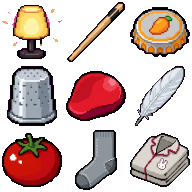
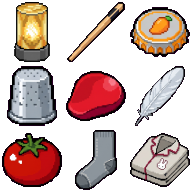
Octobre : Samsam sans pyjama (tenue + portrait) et vraie icône de veilleuse

Changed region(s): [[0.0625, 0.0, 0.2812, 0.3438], [0.2812, 0.1875, 0.3125, 0.2188], [0.0, 0.0938, 0.0312, 0.125]]

diff --git a/10/js/acte2.js b/10/js/acte2.js
@@ -145,9 +145,9 @@ function demarrerActeII(nouveau) {
     if (aObjet("plume")) donnerObjet("plume");
     if (aObjet("pyjama")) donnerObjet("pyjama");
 
-    // Samsam, sans son pyjama, a tiré le rideau sur lui jusqu'aux
-    // oreilles. On ne le voit plus, mais il est là.
-    cacherSamsamSousLeRideau();
+    // Samsam a donné son pyjama : il porte sa planche sans pyjama
+    // (dessinée par Evan), et son portrait suit.
+    samsamSansPyjama();
 
     placerPeluche(PELUCHES.doudou, 7, 1);
     if (saitQue("jus_ouvert")) placerPeluche(PELUCHES.fraisy, 2, 3);
@@ -175,11 +175,9 @@ function demarrerActeII(nouveau) {
 }
 
 
-function cacherSamsamSousLeRideau() {
-    const samsam = PELUCHES.samsam;
-    montrerPeluche(samsam, false);
-    samsam.sousLeRideau = true;
-    if (samsam.zone) samsam.zone.hauteurVisuelle = 18;
+function samsamSansPyjama() {
+    changerDeTenue(PELUCHES.samsam, "samsam_sans_pyjama");
+    montrerPeluche(PELUCHES.samsam, true);
 }
 
 
@@ -278,8 +276,8 @@ function sortirParLaFenetre() {
         { qui: "bob", texte: "..." },
         { qui: "samsam", texte: "Prends-le. S'il te plaît." },
         { qui: "samsam", texte: "C'est le seul endroit où je peux aller." },
-        { texte: "Bob prend le pyjama. Il est encore tiède." },
-        { texte: "Samsam garde la chaussette. Et il tire le rideau sur lui, jusqu'aux oreilles.", quand: cacherSamsamSousLeRideau },
+        { texte: "Bob prend le pyjama. Il est encore tiède.", quand: samsamSansPyjama },
+        { texte: "Samsam garde la chaussette." },
         { texte: "" },
         { texte: "Bob grimpe sur le rebord et ouvre la fenêtre en grand. Le froid entre d'un coup, comme de l'eau." },
         { texte: "En bas, il n'y a rien. Ni la cour, ni les arbres. Deux étages de noir." },
@@ -596,7 +594,7 @@ function leFrigoII() {
 
 
 /* ============================================================
-   SAMSAM — sous le rideau, et plus fort que tout le monde
+   SAMSAM — sans pyjama, et plus fort que tout le monde
    ============================================================
    Il ne se lève pas parce qu'il n'y arrive pas. Il aide quand
    même plus que les autres, d'une seule patte.
@@ -615,7 +613,6 @@ function parlerASamsamII() {
 
     if (saitQue("phare")) {
         lancerDialogue([
-            { texte: "Samsam sort le bout du museau de sous le rideau." },
             { qui: "samsam", texte: "Mon pyjama est très solide." },
             { qui: "samsam", texte: "Il a tenu toutes mes nuits. Il tiendra la tienne." },
         ]);
@@ -632,7 +629,7 @@ function parlerASamsamII() {
 
     if (saitQue("jus_ouvert")) {
         lancerDialogue([
-            { texte: "Sous le rideau, Samsam et Fraisy partagent la bouteille de jus de mangue." },
+            { texte: "Contre le mur, sous la fenêtre, Samsam et Fraisy partagent la bouteille de jus de mangue." },
             { qui: "samsam", texte: "Il fait moins froid, à deux." },
             { qui: "samsam", texte: "Je n'avais pas froid." },
         ]);
@@ -640,7 +637,7 @@ function parlerASamsamII() {
     }
 
     lancerDialogue([
-        { texte: "Sous le rideau, il y a une grosse bosse grise qui respire lentement." },
+        { texte: "Samsam, sous la fenêtre, sans son pyjama. Il a l'air plus petit, comme ça. Il ne l'est pas." },
         { qui: "samsam", texte: "Tu cherches." },
         { qui: "bob", texte: "Oui." },
         { qui: "samsam", texte: "Si tu as quelque chose de lourd à porter. Ou de dur à ouvrir." },
@@ -654,7 +651,7 @@ function samsamOuvreLeJus() {
     lancerDialogue([
         { qui: "bob", texte: "Samsam. Tu peux ouvrir ça ?" },
         { qui: "samsam", texte: "Oui." },
-        { texte: "Une patte sort de sous le rideau. Une seule. Elle prend la bouteille, et elle tourne." },
+        { texte: "Samsam prend la bouteille d'une seule patte, sans se lever. Et il tourne." },
         { texte: "Le couvercle résiste. Samsam ne dit rien. Il tourne encore, tout doucement, et son bras tremble un peu." },
         { texte: "Pop.", quand: sonner("bouchon") },
         { qui: "samsam", texte: "Voilà." },
@@ -666,7 +663,7 @@ function samsamOuvreLeJus() {
         { qui: "fraisy", texte: "Du jus de mangue ! À deux heures du matin ! C'est le meilleur moment pour du jus de mangue, tout le monde le sait." },
         { qui: "fraisy", texte: "Samsam, t'en veux ? T'en veux. On partage." },
         { qui: "fraisy", texte: "Bob, tu gardes le couvercle, et nous on garde ce qu'il y a dedans. C'est équitable." },
-        { texte: "Fraisy s'assoit contre le rideau, la bouteille entre elle et Samsam. Samsam a un peu moins froid." },
+        { texte: "Fraisy s'assoit contre Samsam, la bouteille entre eux deux. Samsam a un peu moins froid." },
         { texte: "Bob tient le couvercle au bout de son bras. Il est rond, doré, et il fait exactement sa taille." },
     ], function () {
         terminerLesMarches();
@@ -873,7 +870,7 @@ function tousALaFenetre() {
     Object.keys(POSTES_FENETRE).forEach(function (cle) {
         const p = PELUCHES[cle];
         const poste = POSTES_FENETRE[cle];
-        if (cle === "samsam") return;       // il y est déjà, sous le rideau
+        if (cle === "samsam") return;       // il y est déjà, sous la fenêtre
         marcherVers(p, poste[0], poste[1], { vitesse: cle === "doudou" ? 50 : 90 });
     });
 }
@@ -1067,7 +1064,6 @@ function leDepart() {
         { qui: "cakey", texte: "Et le pétale, Bob ? Il sert à quoi ?" },
         { qui: "bob", texte: "À rien." },
         { qui: "bob", texte: "Je le lui rends. Comme tous les matins." },
-        { texte: "Sous le rideau, Samsam sort la tête." },
         { qui: "samsam", texte: "Bob." },
         { qui: "samsam", texte: "Pardon de ne pas pouvoir descendre avec toi." },
         { qui: "bob", texte: "Tu descends avec moi, Samsam. Tu es la corde." },

diff --git a/10/js/moteur.js b/10/js/moteur.js
@@ -174,6 +174,34 @@ function aUnPortrait(cle) {
 
 
 /* ------------------------------------------------------------
+   LES TENUES — un personnage qui change d'apparence en route
+   ------------------------------------------------------------
+   Samsam donne son pyjama à la fin de l'acte I : à l'acte II, il
+   a sa planche sans pyjama (et le portrait qui va avec). Une tenue
+   a le même gabarit et la même taille que le personnage ; elle se
+   met avec changerDeTenue() (histoire.js), et APPARENCES dit qui
+   porte quoi en ce moment.
+   ------------------------------------------------------------ */
+const TENUES = ["samsam_sans_pyjama"];
+
+TENUES.forEach(function (tenue) {
+    loadSprite(tenue, "assets/peluches/" + tenue + "_anim.png", {
+        sliceX: 4,
+        sliceY: 4,
+        anims: ANIMS_PELUCHE,
+    });
+    loadSprite("portrait_" + tenue, "assets/peluches/portraits/" + tenue + ".png");
+});
+
+const APPARENCES = {};
+
+// La planche (et le portrait) que porte ce personnage en ce moment.
+function apparenceDe(cle) {
+    return APPARENCES[cle] || cle;
+}
+
+
+/* ------------------------------------------------------------
    LES ICÔNES D'OBJETS
    ------------------------------------------------------------
    Une planche de 3 x 3, dans l'ordre où Evan l'a générée. La

diff --git a/10/js/vie.js b/10/js/vie.js
@@ -209,19 +209,14 @@ function animerPeluche(peluche) {
         // Pas de bulle sur un personnage caché : pendant le
         // cache-cache, elle trahirait Bluey à travers toute la pièce.
         // Ni quand Bob est déjà devant : le point doré prend la place.
-        // Exception : Samsam sous le rideau (acte II). On ne le voit
-        // plus, mais il est là, et on peut lui parler : sa bulle flotte
-        // au-dessus du tas de tissu.
         const vise = interactions.cible && interactions.cible === peluche.zone;
-        const cacheExpres = peluche.cache && !peluche.sousLeRideau;
-        if (!peluche.aDuNeuf || cacheExpres || dialogueEnCours() || vise) {
+        if (!peluche.aDuNeuf || peluche.cache || dialogueEnCours() || vise) {
             peluche.bulle.opacity = 0;
             return;
         }
-        peluche.bulle.opacity = peluche.sousLeRideau ? 1 : peluche.corps.opacity;
-        const hauteur = peluche.sousLeRideau ? 18 : peluche.cote;
+        peluche.bulle.opacity = peluche.corps.opacity;
         peluche.bulle.pos = peluche.basePos.add(
-            vec2(0, -hauteur - 20 + Math.sin(time() * 4) * 3)
+            vec2(0, -peluche.cote - 20 + Math.sin(time() * 4) * 3)
         );
         peluche.bulle.z = Z_NUIT + 10;      // lisible même dans le noir
     });

diff --git a/10/js/histoire.js b/10/js/histoire.js
@@ -413,6 +413,22 @@ function orienterPeluche(peluche, cible) {
 }
 
 
+/* ------------------------------------------------------------
+   changerDeTenue(peluche, tenue)
+   ------------------------------------------------------------
+   Change la planche d'une peluche dessinée (voir TENUES dans
+   moteur.js) sans rien changer d'autre : même place, même taille,
+   même animation en cours. Le portrait suit tout seul.
+   ------------------------------------------------------------ */
+function changerDeTenue(peluche, tenue) {
+    APPARENCES[peluche.cle] = tenue;
+    if (!peluche.dessinee) return;
+    const anim = peluche.corps.animEnCours || "idle-bas";
+    peluche.corps.use(sprite(tenue, { anim: anim }));
+    peluche.corps.animEnCours = anim;
+}
+
+
 // De face, comme au repos.
 function remettreDeFace(peluche) {
     if (!peluche.dessinee) return;

diff --git a/10/js/dialogue.js b/10/js/dialogue.js
@@ -288,7 +288,8 @@ function couleurDeFondDuPortrait(cle) {
 function peindrePortrait(cle) {
 
     const ui = dialogue.ui;
-    const nom = cle && aUnPortrait(cle) ? cle : null;
+    // apparenceDe : Samsam sans son pyjama a son propre portrait.
+    const nom = cle && aUnPortrait(cle) ? apparenceDe(cle) : null;
 
     // Même interlocuteur qu'à la réplique d'avant : rien à refaire.
     if (ui.imageDe === nom) return;

diff --git a/10/HISTOIRE.md b/10/HISTOIRE.md
@@ -61,9 +61,8 @@ Plus **le pétale de rose**, qui ne sert à rien. Sauf à tout.
 - **La corde** — le pyjama Miffy de Samsam (fin de l'acte I). **Le nœud** : Doudou.
 
 **Codé (21/09, `js/acte2.js`, sauvegarde d'avant : tag git `avant-acte-2`)** :
-- **Ouverture** : Samsam donne son pyjama, puis tire le rideau sur lui jusqu'aux
-  oreilles (il n'a plus de pyjama — en attendant son dessin sans pyjama, on ne
-  le voit plus, mais on lui parle). Bob ouvre la fenêtre en grand, ne voit que
+- **Ouverture** : Samsam donne son pyjama — il passe à sa planche sans pyjama
+  (tenue `samsam_sans_pyjama`, portrait compris). Bob ouvre la fenêtre en grand, ne voit que
   du noir ; Doudou le retient (« Je suis sorti dehors sans rien. Je suis revenu
   avec elles », ses coutures) et prend le pyjama pour préparer la corde.
   Carton « Acte II — L'équipement ».
@@ -199,8 +198,8 @@ et un vrai jeu :
 - Le plan réel de l'appartement (photo en attente) → corrige `js/pieces.js`.
 - ~~Sprites des peluches~~ → **reçus le 17/09** (Rosy, Samsam, Fraisy, Bluey,
   Doudou, Cakey + les icônes d'objets), convertis par `outils/refaire_peluches.ps1`.
-  Manquent : **Moin** (il n'existe qu'en texte), et un **Samsam sans pyjama**
-  pour après la fin de l'acte I (il le donne à Bob).
+  **Samsam sans pyjama** et **la vraie veilleuse** (lampe.png) reçus le 21/09.
+  Manque : **Moin** (il n'existe qu'en texte).
 - La vraie couleur des rideaux de Klara (le rideau tombé est crème pour l'instant).
 - ~~Cakey appâte la mouette avec son gâteau~~ → **NON, décidé par Evan.**
   Cakey ne partage JAMAIS son gâteau avec la mouette.
